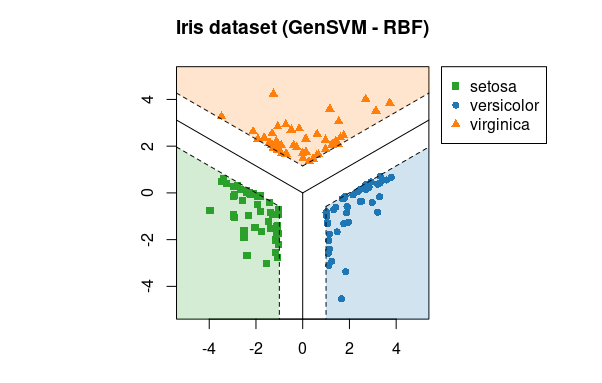
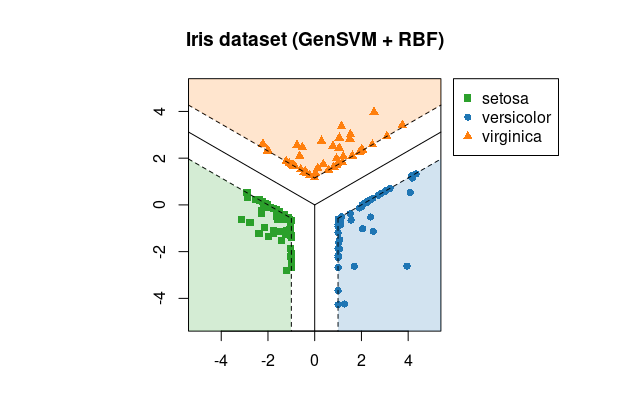
add code used for creating the readme figure

diff --git a/README.md b/README.md
@@ -6,6 +6,17 @@ classifier in R.
 
 ![Pretty picture](./.image.png)
 
+```r
+# Plot created with:
+> library(gensvm)
+> x <- iris[, -5]
+> y <- iris[, 5]
+> fit <- gensvm(x, y, kernel='rbf', gamma=10, max.iter=5000, verbose=1,
+                random.seed=123)
+> plot(fit, x, y, xlim=c(-5, 5), ylim=c(-5, 5))
+> title("Iris dataset (GenSVM + RBF)")
+```
+
 Introduction
 ------------
 
@@ -32,7 +43,9 @@ Installation
 
 This package can be installed from CRAN:
 
-    install.packages('gensvm')
+```r
+> install.packages('gensvm')
+```
 
 Usage
 -----
@@ -65,7 +78,9 @@ Citing
 If you use GenSVM in your work, please cite the paper using the information 
 avialable through the following R command:
 
-    citation('gensvm')
+```r
+> citation('gensvm')
+```
 
 Alternatively, you can use the following BibTeX code directly:
 
